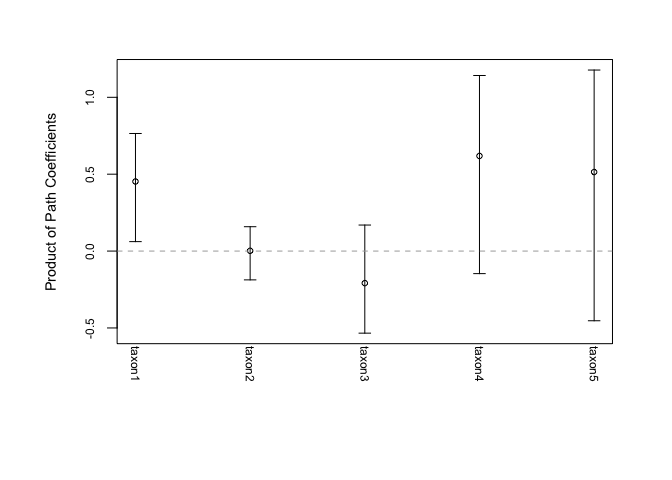
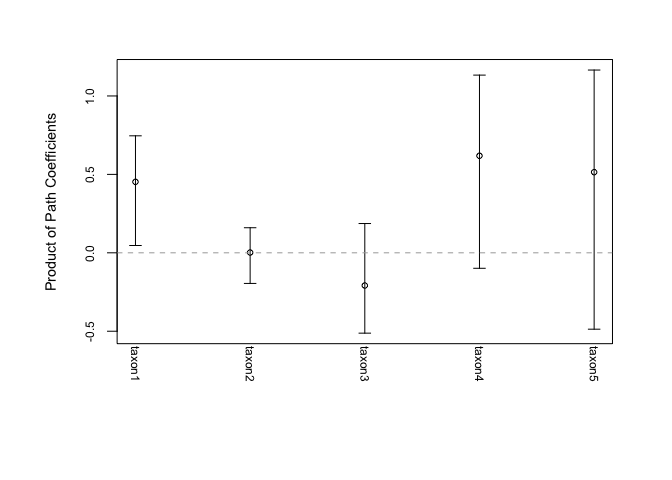
parallel programming issue
Fix the issue of mclappy on Windows

diff --git a/README.md b/README.md
@@ -1,7 +1,7 @@
 README
 ================
 Michael B. Sohn
-7/01/2021
+7/05/2021
 
 ## CMMB: Compositional Mediation Model for Binary Outcomes
 
@@ -29,7 +29,9 @@ library(cmmb)
 source("comparators.R")
 ### Generate a simulated dataset of 50 samples and 5 taxa
 set.seed(2021)
-### The gen.cmm.sim.data function simulates data based on the logistic normal distribution. The first argument takes the number of samples and the second takes the number of components (taxa).
+### The gen.cmm.sim.data function simulates data based on the logistic normal distribution. The first argument 
+### takes the number of samples and the second takes the number of components (taxa). By default, both direct
+### and indirect effects are significantly different from zero.
 sim.dat <- gen.cmm.sim.data(50, 5)
 ### Run CMM for binary outcomes
 rslt <- cmmb(Y=sim.dat$Y, M=sim.dat$M, tr=sim.dat$tr, X=sim.dat$X)
@@ -38,16 +40,16 @@ rslt
 
     ## $total
     ##       Estimate Lower Limit Upper Limit
-    ## DE   0.1831665   0.1229387   0.2930580
-    ## TIDE 0.2585639   0.1391205   0.3345654
+    ## DE   0.1831665   0.1250823   0.2824590
+    ## TIDE 0.2585639   0.1589496   0.3277745
     ## 
     ## $cwprod
     ##           Estimate Lower Limit Upper Limit
-    ## taxon1  0.45250088  0.06145777   0.7646973
-    ## taxon2  0.00179244 -0.18731449   0.1584444
-    ## taxon3 -0.20841877 -0.53383632   0.1692616
-    ## taxon4  0.61865737 -0.14664985   1.1418571
-    ## taxon5  0.51405582 -0.45317917   1.1773031
+    ## taxon1  0.45250088  0.04660647   0.7459192
+    ## taxon2  0.00179244 -0.19522961   0.1598638
+    ## taxon3 -0.20841877 -0.51227069   0.1866653
+    ## taxon4  0.61865737 -0.09870767   1.1329467
+    ## taxon5  0.51405582 -0.48698579   1.1652202
     ## 
     ## attr(,"class")
     ## [1] "cmmb"
@@ -72,27 +74,26 @@ plot_cmmb_sa(rslt.sa)
 ### Performance comparison
 
 ``` r
-set.seed(2021)
 sim.dat <- gen.cmm.sim.data(50, 5)
 PCS(Y=sim.dat$Y, M=sim.dat$M, tr=sim.dat$tr, X=sim.dat$X)
 ```
 
-    ##           Estimate Lower Limit Upper Limit
-    ## DE   -0.0006223289   -0.573698   0.8385662
-    ## TIDE  0.1600846113   -2.155939   2.4267162
+    ##       Estimate Lower Limit Upper Limit
+    ## DE   0.8585578   -1.127475    1.802715
+    ## TIDE 0.5737664   -2.078500    2.364383
 
 ``` r
 PCP(Y=sim.dat$Y, M=sim.dat$M, tr=sim.dat$tr, X=sim.dat$X)
 ```
 
-    ##       Estimate Lower Limit Upper Limit
-    ## DE   0.4499679   0.2390003   0.7423284
-    ## TIDE 0.0217547  -0.2973603   0.1997812
+    ##        Estimate Lower Limit Upper Limit
+    ## DE   0.16603048  0.09920491  0.32829476
+    ## TIDE 0.01797279 -0.14491028  0.07923247
 
 ``` r
 cmmb(Y=sim.dat$Y, M=sim.dat$M, tr=sim.dat$tr, X=sim.dat$X)$total
 ```
 
     ##       Estimate Lower Limit Upper Limit
-    ## DE   0.1831665   0.1216986   0.2847858
-    ## TIDE 0.2585639   0.1530183   0.3294128
+    ## DE   0.1615200  0.11762662   0.2399494
+    ## TIDE 0.1003837  0.02545625   0.1414711
